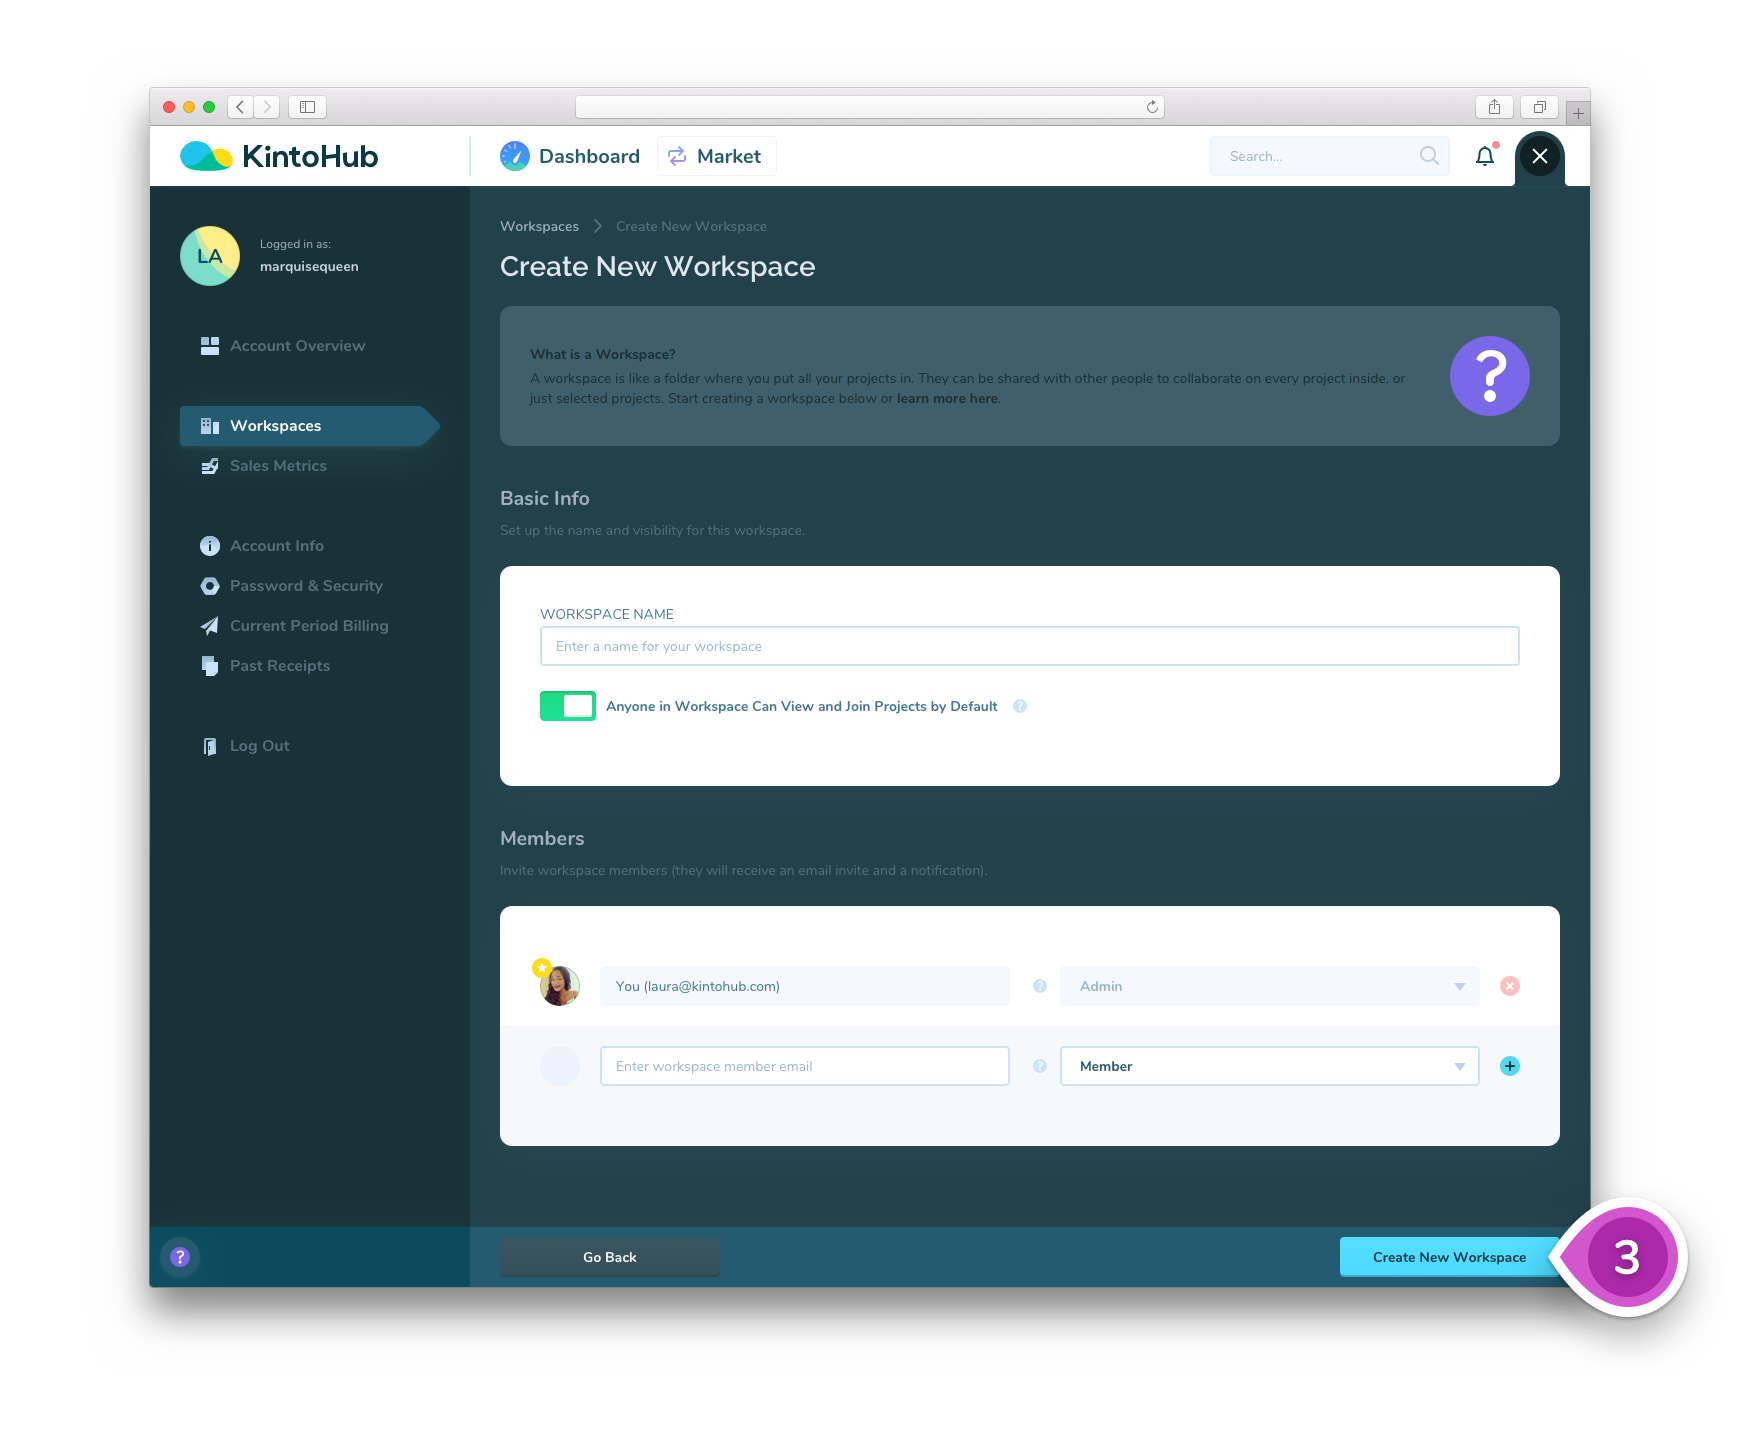
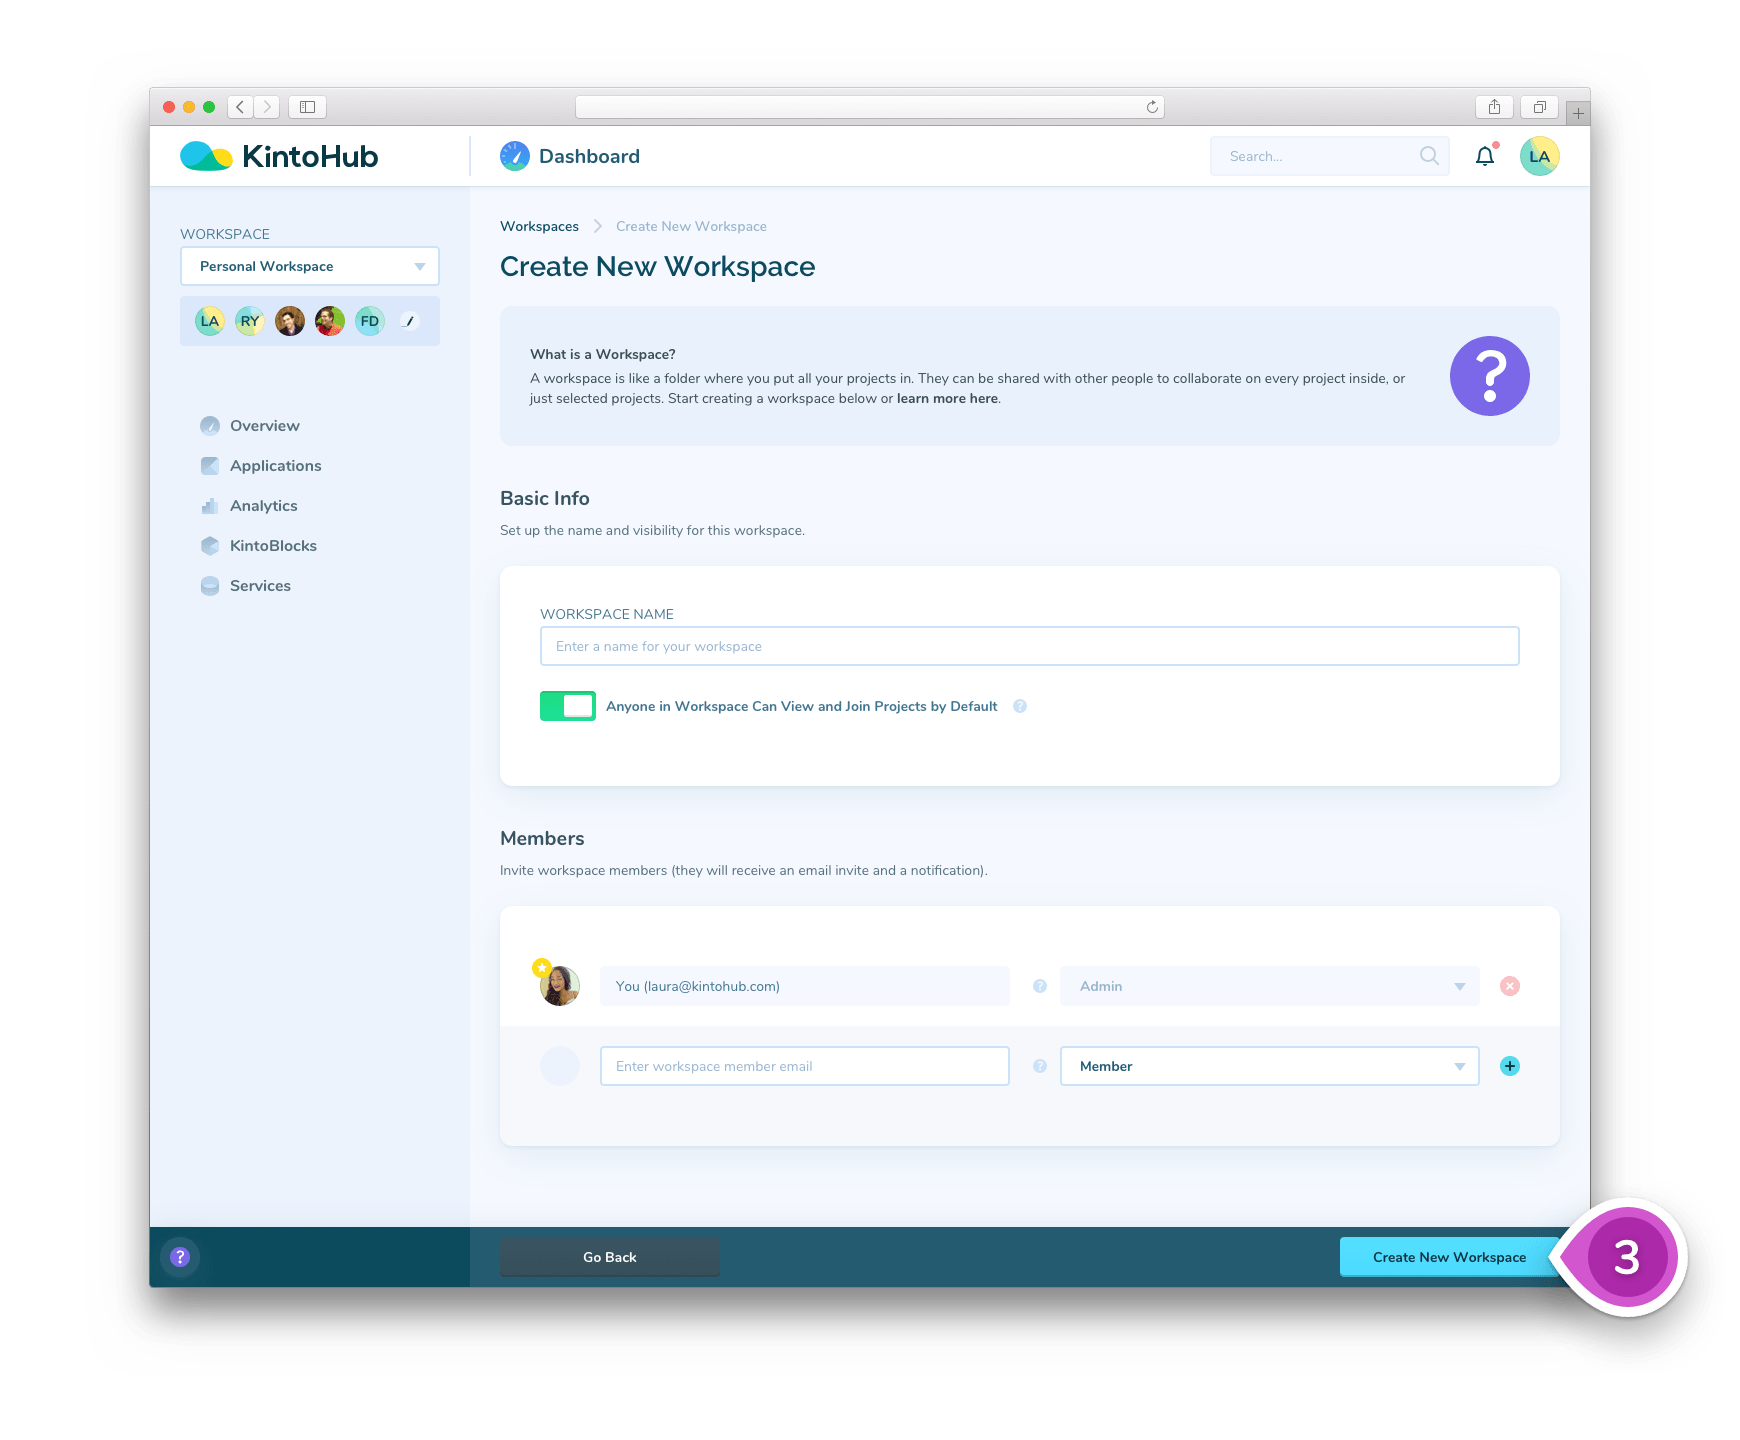
Updated images and fixed adding-dependencies-application.md links

diff --git a/docs/what-is-an-application.md b/docs/what-is-an-application.md
@@ -14,4 +14,4 @@ They are composed of KintoBlocks and services with unique configuration paramete
 * [Creating an application](creating-an-application.md)
 * [Talking to an application](talking-to-applications.md)
 * [Tagging & deploying an application](tagging-and-deploying.md)
-* [Adding dependencies to an application](adding-a-dependency.md)
+* [Adding dependencies to an application](adding-a-dependency-application.md)

diff --git a/docs/talking-to-applications.md b/docs/talking-to-applications.md
@@ -52,4 +52,4 @@ To make a call to gRPC, talk to grpc.prod.kintohub.com with your gRPC service pr
 * [What is an application?](what-is-an-application.md)
 * [Creating an application](creating-an-application.md)
 * [Tagging & deploying an application](tagging-and-deploying.md)
-* [Adding dependencies to an application](adding-a-dependency.md)
+* [Adding dependencies to an application](adding-a-dependency-application.md)

diff --git a/docs/tagging-and-deploying.md b/docs/tagging-and-deploying.md
@@ -23,4 +23,4 @@ This is useful if, for example, you add a dependency and everything breaks, you 
 * [What is an application?](what-is-an-application.md)
 * [Talking to an application](talking-to-applications.md)
 * [Creating an application](creating-an-application.md)
-* [Adding dependencies to an application](adding-a-dependency.md)
+* [Adding dependencies to an application](adding-a-dependency-application.md)

diff --git a/docs/adding-dependencies-kintoblock.md b/docs/adding-dependencies-kintoblock.md
@@ -15,6 +15,6 @@ Once you've created a KintoBlock, you can add additional KintoBlocks to extend i
 
 ### Related Articles
 
-* [Adding dependencies to an application](adding-a-dependency.md)
+* [Adding dependencies to an application](adding-a-dependency-application.md)
 * [Adding dependencies to KintoBlock](adding-dependencies-kintoblock.md)
 * [Creating a KintoBlock](creating-a-kintoblock.md)

diff --git a/docs/creating-an-application.md b/docs/creating-an-application.md
@@ -15,5 +15,5 @@ _That's it! You have created your first application!_
 
 ### Whats Next?
 
-* Make your application more powerful by [adding dependencies](adding-a-dependency.md).
+* Make your application more powerful by [adding dependencies](adding-a-dependency-application.md).
 * [Tag and deploy](tagging-and-deploying.md) to your environments
